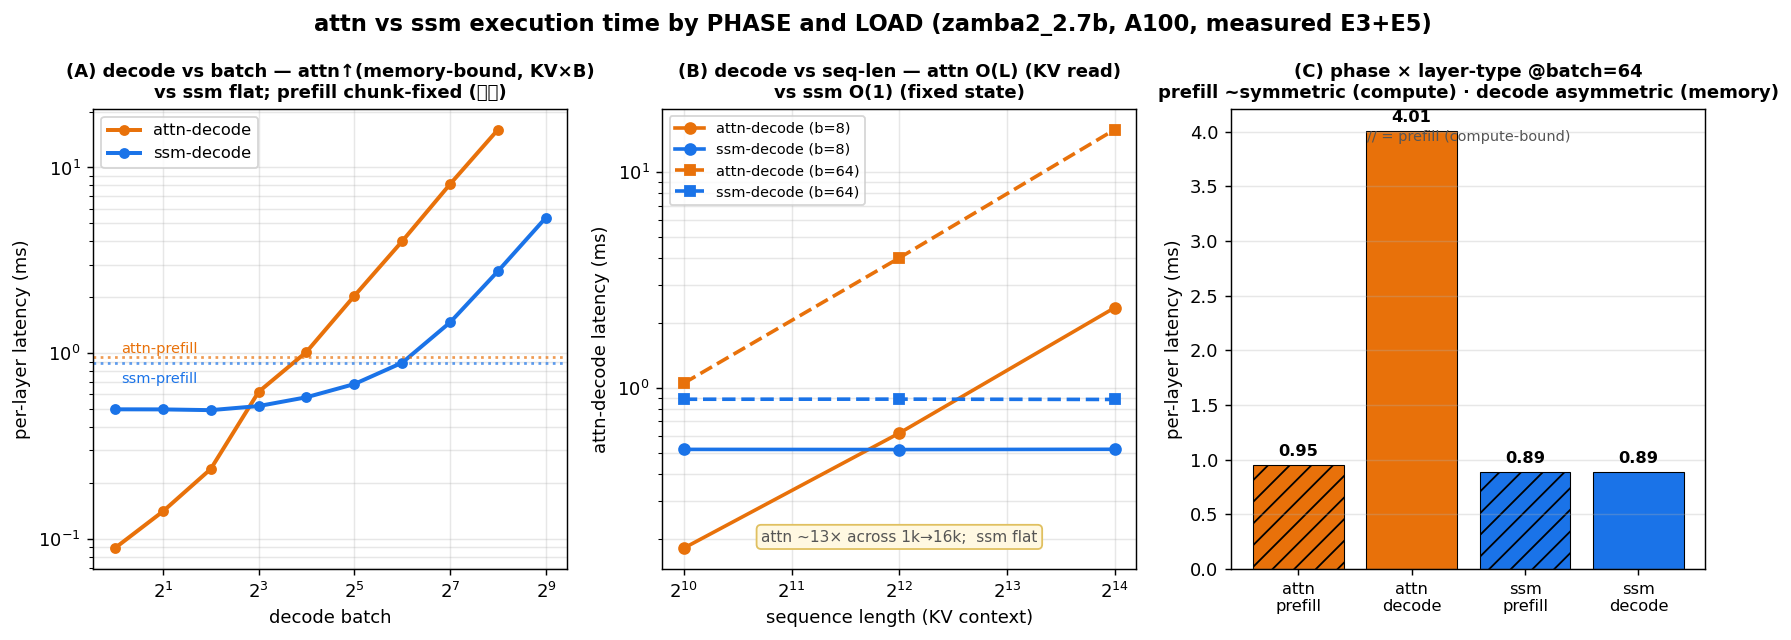
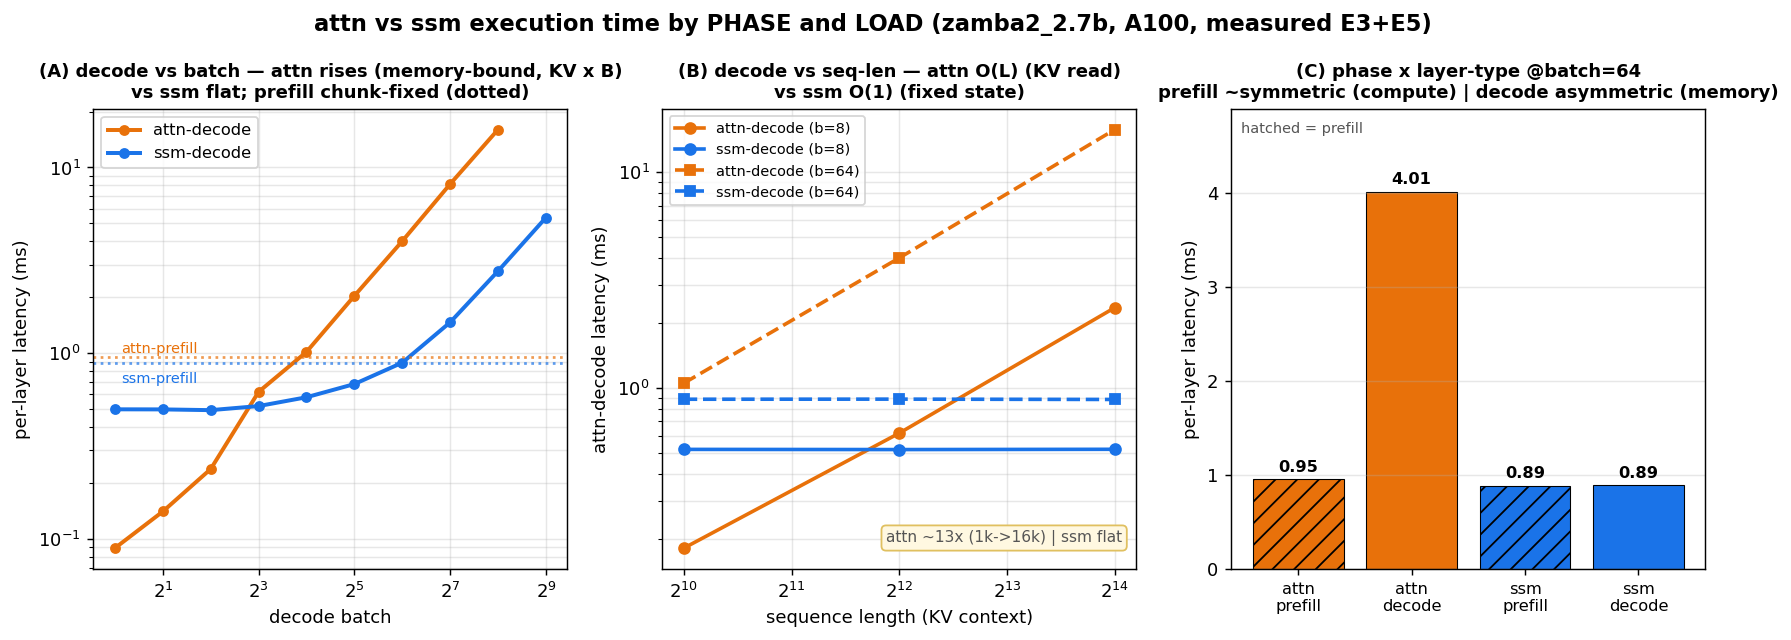
Fix figure visibility: Korean glyph breaks, overlaps, log axis
- char_phase_layertype: replace Korean (점선/13× note) with ASCII; move (C) hatched-legend off
  the tall attn-decode bar + ylim headroom; reposition (B) note to clear corner.
- policy_scaling: replace Korean annotation with English; reposition to clear bottom-right.
- framework_comparison: log y-axis so the reservation policies (26/30/38/44/62/71) are
  distinguishable under fused (111/179/403); legend -> upper-left 2-col; annotation no longer
  clipped by legend.
- vllm_calibration: fix (B) label overlap (1.00/1.52 vs 1.63 collisions) -> label only the
  well-separated z7b endpoint.
- layer_aware_result: move (A) "layer_aware best (~2x)" annotation out from behind the legend.
All text now renders cleanly (DejaVu has no Hangul). Scripts + regenerated PNGs.

diff --git a/workspace/characterization/experiments/e6_queue_sim/make_char_phase_fig.py b/workspace/characterization/experiments/e6_queue_sim/make_char_phase_fig.py
@@ -43,7 +43,7 @@ axA.text(1.1, pa * 1.05, "attn-prefill", color=ATT, fontsize=8)
 axA.text(1.1, ps * 0.78, "ssm-prefill", color=SSM, fontsize=8)
 axA.set_xscale("log", base=2); axA.set_yscale("log")
 axA.set_xlabel("decode batch"); axA.set_ylabel("per-layer latency (ms)")
-axA.set_title("(A) decode vs batch — attn↑(memory-bound, KV×B)\nvs ssm flat; prefill chunk-fixed (점선)",
+axA.set_title("(A) decode vs batch — attn rises (memory-bound, KV x B)\nvs ssm flat; prefill chunk-fixed (dotted)",
               fontsize=10, fontweight="bold")
 axA.legend(fontsize=9); axA.grid(alpha=0.3, which="both")
 
@@ -58,9 +58,9 @@ axB.set_xscale("log", base=2); axB.set_yscale("log")
 axB.set_xlabel("sequence length (KV context)"); axB.set_ylabel("attn-decode latency (ms)")
 axB.set_title("(B) decode vs seq-len — attn O(L) (KV read)\nvs ssm O(1) (fixed state)",
               fontsize=10, fontweight="bold")
-axB.legend(fontsize=8); axB.grid(alpha=0.3, which="both")
-axB.text(0.5, 0.06, "attn ~13× across 1k→16k;  ssm flat", transform=axB.transAxes,
-         ha="center", fontsize=8.5, color="#555", bbox=dict(boxstyle="round", fc="#fff8e1", ec="#e0c060"))
+axB.legend(fontsize=8, loc="upper left"); axB.grid(alpha=0.3, which="both")
+axB.text(0.97, 0.05, "attn ~13x (1k->16k) | ssm flat", transform=axB.transAxes,
+         ha="right", va="bottom", fontsize=8.5, color="#555", bbox=dict(boxstyle="round", fc="#fff8e1", ec="#e0c060"))
 
 # (C) phase × layer-type matrix at decode batch = 64
 b = 64
@@ -74,9 +74,10 @@ for bar, h in zip(bars, hatch): bar.set_hatch(h)
 for i, v in enumerate(vals): axC.text(i, v + 0.08, f"{v:.2f}", ha="center", fontsize=9, fontweight="bold")
 axC.set_xticks(range(4)); axC.set_xticklabels(cats, fontsize=9)
 axC.set_ylabel("per-layer latency (ms)")
-axC.set_title(f"(C) phase × layer-type @batch={b}\nprefill ~symmetric (compute) · decode asymmetric (memory)",
+axC.set_ylim(0, max(vals) * 1.22)
+axC.set_title(f"(C) phase x layer-type @batch={b}\nprefill ~symmetric (compute) | decode asymmetric (memory)",
               fontsize=10, fontweight="bold")
-axC.text(0.5, 0.93, "// = prefill (compute-bound)", transform=axC.transAxes, ha="center", fontsize=8, color="#555")
+axC.text(0.02, 0.97, "hatched = prefill", transform=axC.transAxes, ha="left", va="top", fontsize=8, color="#555")
 axC.grid(axis="y", alpha=0.3)
 
 fig.suptitle("attn vs ssm execution time by PHASE and LOAD (zamba2_2.7b, A100, measured E3+E5)",

diff --git a/workspace/characterization/experiments/e6_queue_sim/make_framework_fig.py b/workspace/characterization/experiments/e6_queue_sim/make_framework_fig.py
@@ -28,22 +28,24 @@ for k, pol in enumerate(POL):
     vals = [DATA[m][k] for m in models]
     ax.bar(x + (k - 1.5) * w, vals, w, label=pol, color=COL[pol], edgecolor="k", linewidth=0.4)
     for i, v in enumerate(vals):
-        ax.text(x[i] + (k - 1.5) * w, v + 4, f"{v}", ha="center", va="bottom", fontsize=7.5)
+        ax.text(x[i] + (k - 1.5) * w, v * 1.04, f"{v}", ha="center", va="bottom", fontsize=7.5)
 # vLLM anchor
 for m, v in VLLM_FUSED.items():
     i = models.index(m)
     ax.plot([i - 2 * w, i + 2 * w], [v, v], "k--", lw=1.6)
-    ax.text(i + 2 * w + 0.02, v, f"vLLM fused\nmeasured {v}ms", va="center", fontsize=8, fontweight="bold")
+    ax.text(i + 2 * w + 0.04, v, f"vLLM fused\nmeasured {v}ms", va="center", fontsize=8, fontweight="bold")
+ax.set_yscale("log")                                   # log so reservation-policy differences are visible
+ax.set_ylim(15, 600)
 ax.set_xticks(x); ax.set_xticklabels([f"zamba2 {m}" for m in models])
-ax.set_ylabel("decode ITL p99 (ms)  — SLO-critical")
+ax.set_ylabel("decode ITL p99 (ms, log)  — SLO-critical")
 ax.set_title("Framework comparison: fused (vLLM) has the highest decode ITL;\n"
-             "PD-mux reservation (agnostic/layer_aware) bounds it 4–6x lower",
+             "PD-mux reservation (agnostic/layer_aware) bounds it 4-6x lower",
              fontsize=11.5, fontweight="bold")
-ax.legend(fontsize=9.5, title="policy")
-ax.grid(axis="y", alpha=0.3)
-ax.text(0.5, 0.97, "sim absolute ITL overestimates vLLM ~1.6x for zamba2 (no-GQA); "
-        "the fused/layer_aware RATIO (4–6x) is calibration-invariant",
-        transform=ax.transAxes, ha="center", va="top", fontsize=8, color="#555",
+ax.legend(fontsize=9, title="policy", loc="upper left", ncol=2)
+ax.grid(axis="y", alpha=0.3, which="both")
+ax.text(0.5, 0.025, "sim absolute ITL overestimates vLLM ~1.6x (zamba2 no-GQA); "
+        "fused/layer_aware RATIO (4-6x) is calibration-invariant",
+        transform=ax.transAxes, ha="center", va="bottom", fontsize=7.5, color="#555",
         bbox=dict(boxstyle="round", fc="#fff8e1", ec="#e0c060"))
 out = Path(_CHAR).parents[1] / "reports" / "figures"
 out.mkdir(parents=True, exist_ok=True)

diff --git a/workspace/characterization/experiments/e6_queue_sim/make_calibration_fig.py b/workspace/characterization/experiments/e6_queue_sim/make_calibration_fig.py
@@ -46,9 +46,10 @@ sim_dec = np.array([D[m][4] for m in zs]); sim_dec = sim_dec / sim_dec[0]
 vllm_t = np.array([D[m][1] for m in zs]); vllm_t = vllm_t / vllm_t[0]
 axB.plot(range(3), sim_dec, "-o", color=BLUE, lw=2, ms=8, label="sim decode_total")
 axB.plot(range(3), vllm_t, "-s", color=GREEN, lw=2, ms=8, label="vLLM TPOT (sat)")
-for i in range(3):
-    axB.text(i, sim_dec[i] + 0.08, f"{sim_dec[i]:.2f}", ha="center", color=BLUE, fontsize=9)
-    axB.text(i, vllm_t[i] - 0.18, f"{vllm_t[i]:.2f}", ha="center", color=GREEN, fontsize=9)
+# label only the endpoint (well-separated) to avoid overlap; lines visibly coincide elsewhere
+axB.text(2.05, sim_dec[2], f"{sim_dec[2]:.2f}", ha="left", va="bottom", color=BLUE, fontsize=10, fontweight="bold")
+axB.text(2.05, vllm_t[2], f"{vllm_t[2]:.2f}", ha="left", va="top", color=GREEN, fontsize=10, fontweight="bold")
+axB.set_xlim(-0.2, 2.5)
 axB.set_xticks(range(3)); axB.set_xticklabels(zs)
 axB.set_ylabel("decode cost, normalized to 1.2B")
 axB.set_title("(B) decode-cost SIZE-SCALING matches\n(relative trend valid even though absolute is off)",

diff --git a/workspace/characterization/experiments/e6_queue_sim/make_policy_scaling_fig.py b/workspace/characterization/experiments/e6_queue_sim/make_policy_scaling_fig.py
@@ -72,9 +72,9 @@ for pol in POLS:
 axB.set_xscale("log", base=2); axB.set_yscale("log")
 axB.set_xlabel("sequence length (KV context)"); axB.set_ylabel(f"full-model decode ITL (ms), batch={b}")
 axB.set_title("(B) policy execution time vs seq-len\n(attn-decode O(L) from E3; ssm O(1))", fontsize=11, fontweight="bold")
-axB.legend(fontsize=9); axB.grid(alpha=0.3, which="both")
-axB.text(0.5, 0.05, "context↑ → attn-decode↑ → fused/co가 더 빨리 악화\n(예약 정책은 attn만 늘어 완만)",
-         transform=axB.transAxes, ha="center", fontsize=8, color="#555",
+axB.legend(fontsize=9, loc="upper left"); axB.grid(alpha=0.3, which="both")
+axB.text(0.97, 0.04, "context up -> attn-decode up -> fused/co worsen faster",
+         transform=axB.transAxes, ha="right", va="bottom", fontsize=7.5, color="#555",
          bbox=dict(boxstyle="round", fc="#fff8e1", ec="#e0c060"))
 
 fig.suptitle("Per-policy decode ITL scaling with batch & sequence length (zamba2_2.7b, A100)",

diff --git a/workspace/characterization/experiments/e6_queue_sim/make_layer_aware_figs.py b/workspace/characterization/experiments/e6_queue_sim/make_layer_aware_figs.py
@@ -77,14 +77,14 @@ if win.any():
     # annotate in the robust 2x zone (where la ~= 2*ag)
     robust = win & (la > ag * 1.8)
     if robust.any():
-        axA.text(SLO[robust].mean(), 1.33, "layer_aware best (~2x)", color="#1a73e8",
-                 ha="center", va="top", fontsize=10, fontweight="bold")
+        axA.text(0.97, 0.62, "layer_aware\nbest (~2x)", transform=axA.transAxes, color="#1a73e8",
+                 ha="right", va="center", fontsize=10, fontweight="bold")
         axA.text(SLO[robust].min(), 0.05, f"SLO >= {SLO[robust].min():.0f}ms", color="#1a73e8",
                  ha="center", va="bottom", fontsize=8)
 axA.set_xlabel("per-token SLO (TBT, ms)")
 axA.set_ylabel("goodput@SLO  (k tok/s)")
 axA.set_title("(A) goodput vs SLO -- zamba2_2.7b (9 attn + 45 ssm)", fontweight="bold")
-axA.legend(fontsize=8.5, loc="upper left", framealpha=0.9)
+axA.legend(fontsize=8.5, loc="upper left", framealpha=0.95)
 axA.grid(alpha=0.3)
 axA.set_ylim(0, 1.45)
 
